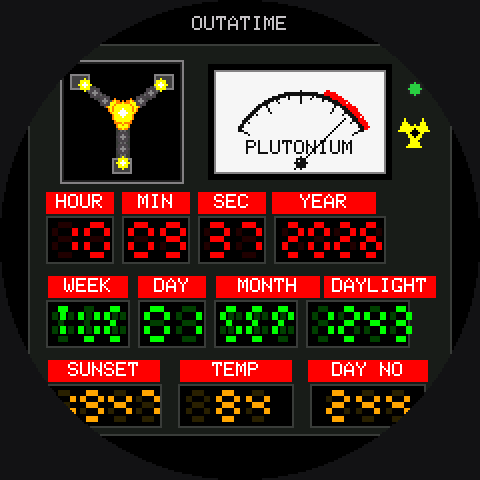
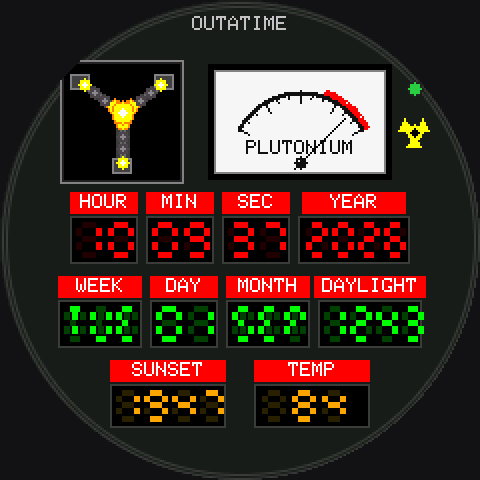
delorean: fill the screen, centre every row, drop DAY NO
The housing was a rounded rectangle inset from the edges, which on a round
display reads as a box floating on black. It is now the whole face, with
its edging following the rim.

All three readout rows were left-aligned against the old box. Each is now
centred on the dial: positions computed from the well widths and gaps
rather than nudged by eye. The green row was not part of the request but
was the only row left uncentred once the others moved, so it went too.

The bottom row loses DAY NO and keeps two boxes, the alternating sun time
and the temperature, centred as a pair.

Built for all three boards; the C3 has the pinned preview flashed and
verified.

diff --git a/src/faces/face_delorean.cpp b/src/faces/face_delorean.cpp
@@ -14,7 +14,7 @@
 //     flux capacitor            plutonium gauge (WiFi signal)
 //     HOUR  MIN  SEC  YEAR
 //     WEEK  DAY  MONTH (spelled)  DAYLIGHT
-//     SUNRISE/SUNSET (alternating)  TEMP  DAY NO
+//     SUNRISE/SUNSET (alternating)  TEMP
 //
 //  The flux capacitor charges: all three arms are live and pulses of light
 //  run from the junction out to the terminals. Nothing here is a bitmap;
@@ -372,10 +372,12 @@ static void render(GFX &g, const struct tm &t, float subSec)
 {
     char buf[16];
 
-    g.fillScreen(C_BG);
-    // the dark brushed housing the readouts are set into
-    g.fillRoundRect(14, 22, 212, 196, 8, C_CASE);
-    g.drawRoundRect(14, 22, 212, 196, 8, C_FRAME);
+    // The housing fills the glass: on a round display a rounded rectangle
+    // reads as a box floating on black, so the panel is the whole face and
+    // its edging follows the rim.
+    g.fillScreen(C_CASE);
+    g.drawSmoothCircle(120, 120, 119, C_FRAME, C_CASE);
+    g.drawSmoothCircle(120, 120, 117, C_FRAME, C_CASE);
 
     // ---- flux capacitor and gauge across the top --------------------------
     float ticks = (t.tm_sec + subSec) / 0.7f;      // one pulse every 0.7 s
@@ -389,74 +391,66 @@ static void render(GFX &g, const struct tm &t, float subSec)
     trefoil(g, 207, 66, 4);
 
     // ---- destination row: HOUR MIN SEC YEAR -------------------------------
-    tab(g, "HOUR", 40,  96, 34);
-    tab(g, "MIN",  78,  96, 34);
-    tab(g, "SEC",  116, 96, 34);
-    tab(g, "YEAR", 162, 96, 52);
+    tab(g, "HOUR", 52,  96, 34);
+    tab(g, "MIN",  90,  96, 34);
+    tab(g, "SEC",  128, 96, 34);
+    tab(g, "YEAR", 177, 96, 52);
 
-    well(g, 23, 108, 34, 24);
+    well(g, 35, 108, 34, 24);
     snprintf(buf, sizeof buf, "%02d", t.tm_hour);
-    digits(g, buf, 26, 111, 13, 18, 3, 3, C_RED, C_RED_OFF);
+    digits(g, buf, 38, 111, 13, 18, 3, 3, C_RED, C_RED_OFF);
 
-    well(g, 61, 108, 34, 24);
+    well(g, 73, 108, 34, 24);
     snprintf(buf, sizeof buf, "%02d", t.tm_min);
-    digits(g, buf, 64, 111, 13, 18, 3, 3, C_RED, C_RED_OFF);
+    digits(g, buf, 76, 111, 13, 18, 3, 3, C_RED, C_RED_OFF);
 
-    well(g, 99, 108, 34, 24);
+    well(g, 111, 108, 34, 24);
     snprintf(buf, sizeof buf, "%02d", t.tm_sec);
-    digits(g, buf, 102, 111, 13, 18, 3, 3, C_RED, C_RED_OFF);
+    digits(g, buf, 114, 111, 13, 18, 3, 3, C_RED, C_RED_OFF);
 
-    well(g, 137, 108, 56, 24);
+    well(g, 149, 108, 56, 24);
     snprintf(buf, sizeof buf, "%04d", t.tm_year + 1900);
-    digits(g, buf, 141, 111, 11, 18, 3, 2, C_RED, C_RED_OFF);
+    digits(g, buf, 153, 111, 11, 18, 3, 2, C_RED, C_RED_OFF);
 
     // ---- present row: WEEK DAY MONTH (spelled) SUNSET ---------------------
-    tab(g, "WEEK",  44,  138, 40);
-    tab(g, "DAY",   86,  138, 34);
-    tab(g, "MONTH", 134, 138, 52);
-    tab(g, "DAYLIGHT", 190, 138, 56);
+    tab(g, "WEEK",  50,  138, 42);
+    tab(g, "DAY",   92,  138, 34);
+    tab(g, "MONTH", 134, 138, 42);
+    tab(g, "DAYLIGHT", 185, 138, 56);
 
-    well(g, 23, 150, 42, 24);
-    letters(g, WDAYS[t.tm_wday % 7], 26, 153, 11, 18, 3, 2, C_GRN, C_GRN_OFF);
+    well(g, 29, 150, 42, 24);
+    letters(g, WDAYS[t.tm_wday % 7], 32, 153, 11, 18, 3, 2, C_GRN, C_GRN_OFF);
 
-    well(g, 69, 150, 34, 24);
+    well(g, 75, 150, 34, 24);
     snprintf(buf, sizeof buf, "%02d", t.tm_mday);
-    digits(g, buf, 72, 153, 13, 18, 3, 3, C_GRN, C_GRN_OFF);
+    digits(g, buf, 78, 153, 13, 18, 3, 3, C_GRN, C_GRN_OFF);
 
-    well(g, 107, 150, 42, 24);
-    letters(g, MONTHS[t.tm_mon % 12], 110, 153, 11, 18, 3, 2, C_GRN, C_GRN_OFF);
+    well(g, 113, 150, 42, 24);
+    letters(g, MONTHS[t.tm_mon % 12], 116, 153, 11, 18, 3, 2, C_GRN, C_GRN_OFF);
 
-    well(g, 153, 150, 52, 24);
+    well(g, 159, 150, 52, 24);
     if (wxSunrise >= 0 && wxSunset > wxSunrise) {
         int d = wxSunset - wxSunrise;
         snprintf(buf, sizeof buf, "%02d%02d", d / 60, d % 60);
     } else strcpy(buf, "----");
-    digits(g, buf, 156, 153, 11, 18, 3, 2, C_GRN, C_GRN_OFF);
+    digits(g, buf, 162, 153, 11, 18, 3, 2, C_GRN, C_GRN_OFF);
 
     // ---- last departed row: sun times | TEMP | DAYLIGHT --------------------
     // One box carries both sun times, swapping every five seconds, which
     // keeps a readout of its own for the temperature.
     bool showRise = ((t.tm_sec / 5) & 1) == 0;
-    tab(g, showRise ? "SUNRISE" : "SUNSET", 52, 180, 56);
-    well(g, 23, 192, 58, 22);
+    tab(g, showRise ? "SUNRISE" : "SUNSET", 84, 180, 58);
+    well(g, 55, 192, 58, 22);
     int sunVal = showRise ? wxSunrise : wxSunset;
     if (sunVal >= 0) snprintf(buf, sizeof buf, "%02d%02d", sunVal / 60, sunVal % 60);
     else             strcpy(buf, "----");
-    digits(g, buf, 26, 195, 12, 16, 3, 2, C_AMB, C_AMB_OFF);
+    digits(g, buf, 58, 195, 12, 16, 3, 2, C_AMB, C_AMB_OFF);
 
-    tab(g, "TEMP", 118, 180, 56);
-    well(g, 89, 192, 58, 22);
+    tab(g, "TEMP", 156, 180, 58);
+    well(g, 127, 192, 58, 22);
     if (wxValid) snprintf(buf, sizeof buf, "%3d", wxTempF);
     else         strcpy(buf, " --");
-    digits(g, buf, 93, 195, 12, 16, 3, 3, C_AMB, C_AMB_OFF);
-
-    // the year's remaining daylight is up in the green row now, so this
-    // last box carries the date's day-of-year, which the prop had as a
-    // running counter
-    tab(g, "DAY NO", 184, 180, 60);
-    well(g, 155, 192, 58, 22);
-    snprintf(buf, sizeof buf, "%03d", t.tm_yday + 1);
-    digits(g, buf, 163, 195, 12, 16, 3, 3, C_AMB, C_AMB_OFF);
+    digits(g, buf, 131, 195, 12, 16, 3, 3, C_AMB, C_AMB_OFF);
 
     // ---- the little indicators the prop carries ---------------------------
     // WiFi/NTP state: a lamp on the housing beside the gauge. There is no

diff --git a/tools/render/faces_delorean.py b/tools/render/faces_delorean.py
@@ -176,56 +176,52 @@ def face_delorean(c, hh, mm, ss, mday, mon, year, wday, temp_f, sunrise, sunset)
                            cx + math.cos(a + 0.5) * r * 2, cy + math.sin(a + 0.5) * r * 2, Y)
         c.fillCircle(cx, cy, r // 2, K["C_BG"])
 
-    c.fillScreen(K["C_BG"])
-    c.fillRoundRect(14, 22, 212, 196, 8, CASE)
-    c.drawRoundRect(14, 22, 212, 196, 8, FRAME)
+    c.fillScreen(CASE)
+    c.drawSmoothCircle(120, 120, 119, FRAME, CASE)
+    c.drawSmoothCircle(120, 120, 117, FRAME, CASE)
 
     flux(30, 30, 62, 62, 0.45)
     gauge(104, 32, 92, 58, 86)
     trefoil(207, 66, 4)
 
-    tab("HOUR", 40, 96, 34)
-    tab("MIN", 78, 96, 34)
-    tab("SEC", 116, 96, 34)
-    tab("YEAR", 162, 96, 52)
+    tab("HOUR", 52, 96, 34)
+    tab("MIN", 90, 96, 34)
+    tab("SEC", 128, 96, 34)
+    tab("YEAR", 177, 96, 52)
 
-    well(23, 108, 34, 24)
-    digits("%02d" % hh, 26, 111, 13, 18, 3, 3, RED, RED_OFF)
-    well(61, 108, 34, 24)
-    digits("%02d" % mm, 64, 111, 13, 18, 3, 3, RED, RED_OFF)
-    well(99, 108, 34, 24)
-    digits("%02d" % ss, 102, 111, 13, 18, 3, 3, RED, RED_OFF)
-    well(137, 108, 56, 24)
-    digits("%04d" % year, 141, 111, 11, 18, 3, 2, RED, RED_OFF)
+    well(35, 108, 34, 24)
+    digits("%02d" % hh, 38, 111, 13, 18, 3, 3, RED, RED_OFF)
+    well(73, 108, 34, 24)
+    digits("%02d" % mm, 76, 111, 13, 18, 3, 3, RED, RED_OFF)
+    well(111, 108, 34, 24)
+    digits("%02d" % ss, 114, 111, 13, 18, 3, 3, RED, RED_OFF)
+    well(149, 108, 56, 24)
+    digits("%04d" % year, 153, 111, 11, 18, 3, 2, RED, RED_OFF)
 
-    tab("WEEK", 44, 138, 40)
-    tab("DAY", 86, 138, 34)
-    tab("MONTH", 134, 138, 52)
-    tab("DAYLIGHT", 190, 138, 56)
+    tab("WEEK", 50, 138, 42)
+    tab("DAY", 92, 138, 34)
+    tab("MONTH", 134, 138, 42)
+    tab("DAYLIGHT", 185, 138, 56)
 
-    well(23, 150, 42, 24)
-    letters(WDAYS[wday], 26, 153, 11, 18, 3, 2, GRN, GRN_OFF)
-    well(69, 150, 34, 24)
-    digits("%02d" % mday, 72, 153, 13, 18, 3, 3, GRN, GRN_OFF)
-    well(107, 150, 42, 24)
-    letters(MONTHS[mon], 110, 153, 11, 18, 3, 2, GRN, GRN_OFF)
-    well(153, 150, 52, 24)
+    well(29, 150, 42, 24)
+    letters(WDAYS[wday], 32, 153, 11, 18, 3, 2, GRN, GRN_OFF)
+    well(75, 150, 34, 24)
+    digits("%02d" % mday, 78, 153, 13, 18, 3, 3, GRN, GRN_OFF)
+    well(113, 150, 42, 24)
+    letters(MONTHS[mon], 116, 153, 11, 18, 3, 2, GRN, GRN_OFF)
+    well(159, 150, 52, 24)
     dl = sunset - sunrise
-    digits("%02d%02d" % (dl // 60, dl % 60), 156, 153, 11, 18, 3, 2, GRN, GRN_OFF)
+    digits("%02d%02d" % (dl // 60, dl % 60), 162, 153, 11, 18, 3, 2, GRN, GRN_OFF)
 
     show_rise = (ss // 5) % 2 == 0
     sun_val = sunrise if show_rise else sunset
-    tab("SUNRISE" if show_rise else "SUNSET", 52, 180, 56)
-    well(23, 192, 58, 22)
-    digits("%02d%02d" % (sun_val // 60, sun_val % 60), 26, 195, 12, 16, 3, 2, AMB, AMB_OFF)
+    tab("SUNRISE" if show_rise else "SUNSET", 84, 180, 58)
+    well(55, 192, 58, 22)
+    digits("%02d%02d" % (sun_val // 60, sun_val % 60), 58, 195, 12, 16, 3, 2, AMB, AMB_OFF)
 
-    tab("TEMP", 118, 180, 56)
-    well(89, 192, 58, 22)
-    digits("%3d" % temp_f, 93, 195, 12, 16, 3, 3, AMB, AMB_OFF)
-
-    tab("DAY NO", 184, 180, 60)
-    well(155, 192, 58, 22)
-    digits("%03d" % 244, 163, 195, 12, 16, 3, 3, AMB, AMB_OFF)
+    tab("TEMP", 156, 180, 58)
+    well(127, 192, 58, 22)
+    digits("%3d" % temp_f, 131, 195, 12, 16, 3, 3, AMB, AMB_OFF)
 
     c.fillCircle(207, 44, 4, 0x2104)
     c.fillCircle(207, 44, 3, 0x2E68)
